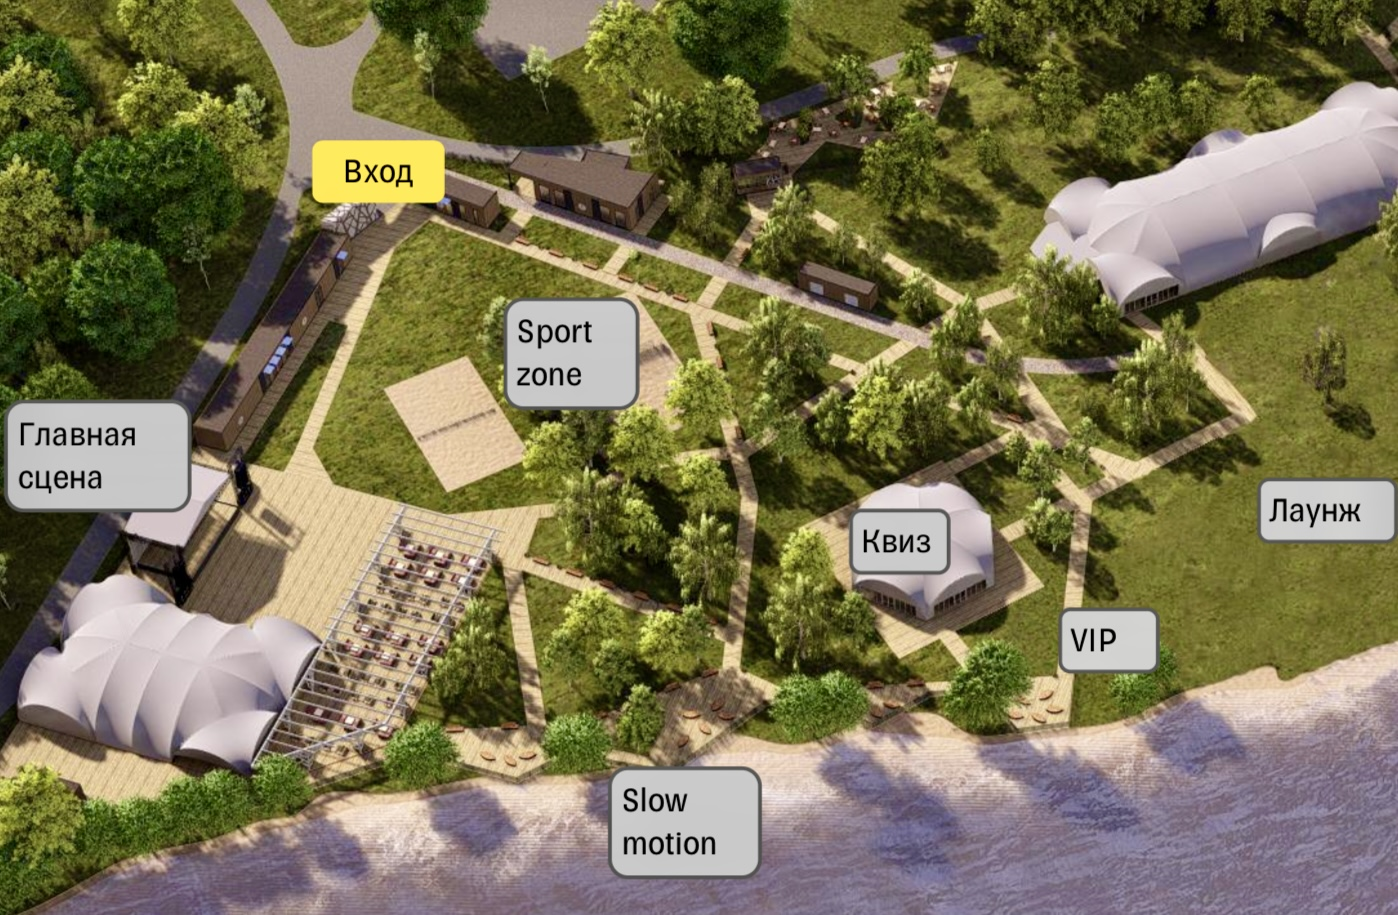
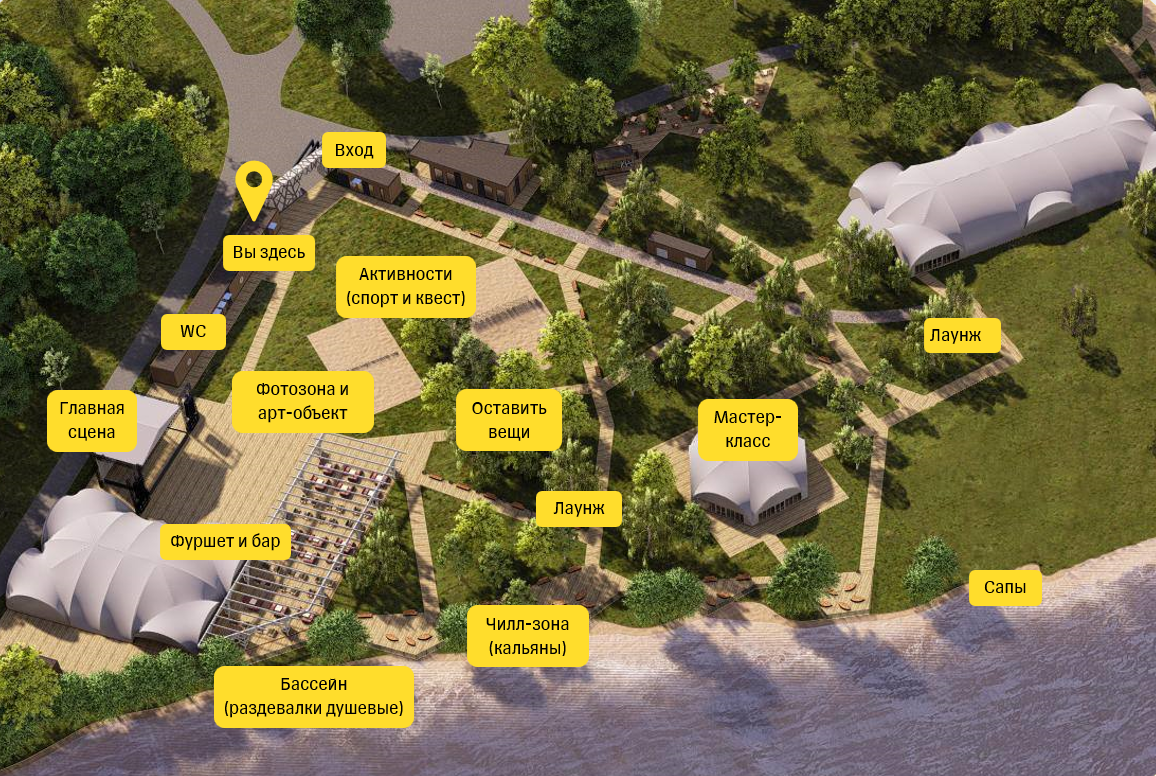
new text

diff --git a/handlers/start_router.py b/handlers/start_router.py
@@ -118,7 +118,7 @@ async def start_legends(message: Message, state: FSMContext):
 def call_stations():
     # questions = {1: {'qst': 'Столица Италии?', 'answer': 'Рим'}}
     buttons = {}
-    with open('./temp_answers/stations', 'r', encoding='utf-8') as f:
+    with open('./temp_answers/stations_buttons', 'r', encoding='utf-8') as f:
         data = f.readlines()
     
     with open('./temp_answers/stations_info', 'r', encoding='utf-8') as f:
@@ -132,8 +132,8 @@ def call_stations():
 @start_router.message(F.text == 'Станции с описанием')
 async def start_stations(message: Message, state: FSMContext):
     await state.clear()
-    # text = call_answer_file('stations')
-    text = 'Выберете станцию про которую хотите узнать подробнее \n🎡 Станции можно посещать в любом порядке — как душе угодно! \n Участвуй и зарабатывай очки!'
+    text = call_answer_file('stations')
+    # text = 'Выберете станцию про которую хотите узнать подробнее \n🎡 Станции можно посещать в любом порядке — как душе угодно! \n Участвуй и зарабатывай очки!'
     questions = call_stations()
     
     await message.answer(text, reply_markup=create_qst_inline_kb(questions))
@@ -152,7 +152,18 @@ async def cmd_start(call: CallbackQuery):
                f'Выбери другой вопрос:'
     async with ChatActionSender(bot=bot, chat_id=call.from_user.id, action="typing"):
         # await asyncio.sleep(2)
-        await call.message.answer(msg_text, reply_markup=create_qst_inline_kb(questions))
+        # Путь к файлу относительно корня проекта
+        photo_path = "map.png"
+        
+        # Создаем объект файла
+        photo = FSInputFile(photo_path)
+        
+        await call.message.answer_photo(
+            photo=photo,
+            caption=msg_text,
+            reply_markup=create_qst_inline_kb(questions)
+        )
+        # await call.message.answer(msg_text, reply_markup=create_qst_inline_kb(questions))
 
 
  
